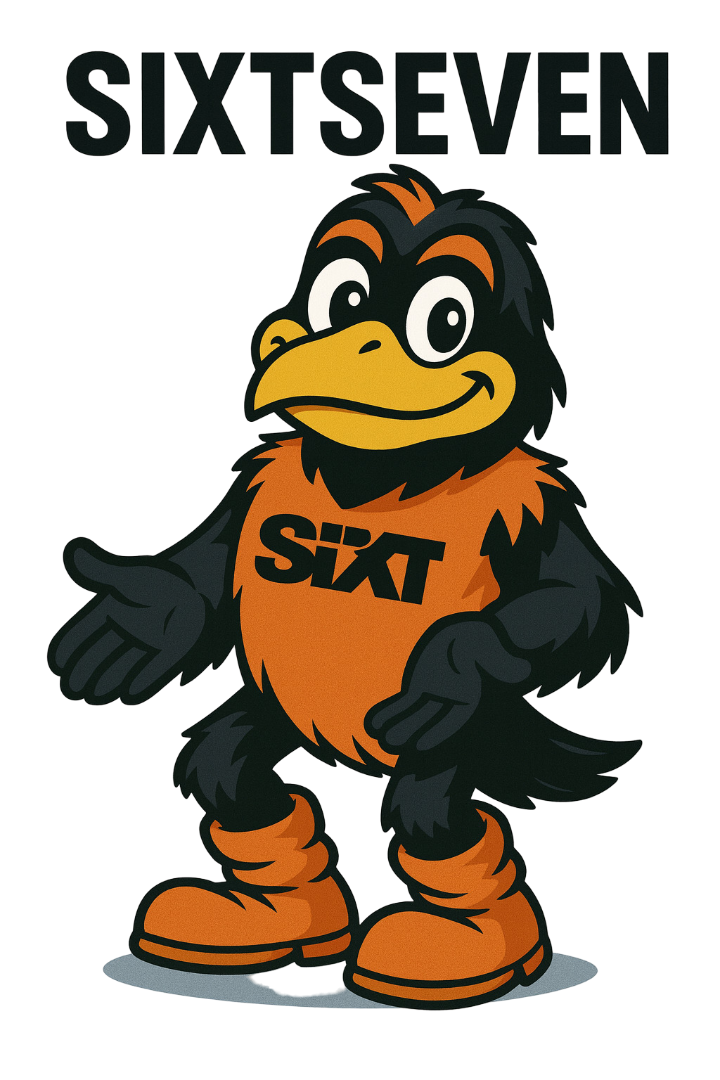
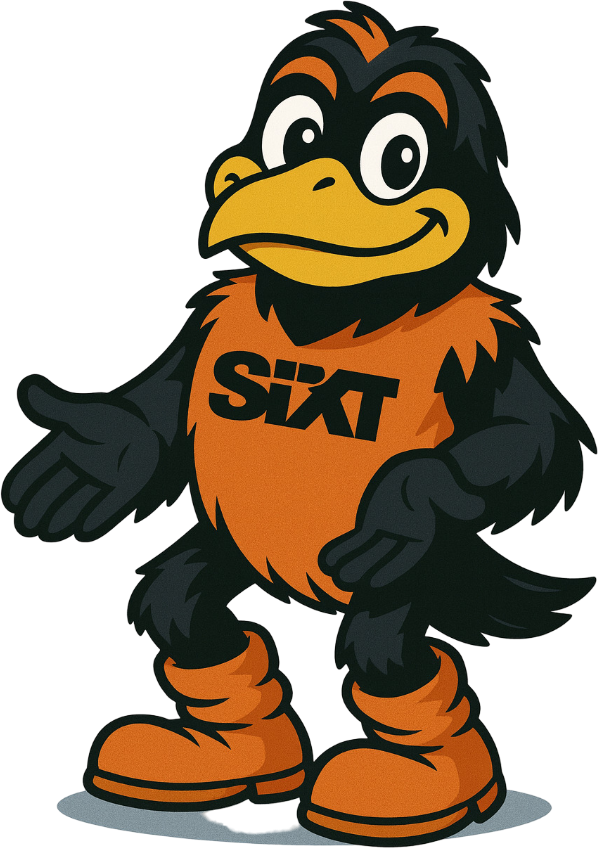
Chore: some more cleanup

diff --git a/src/routes/kiosk/+page.svelte b/src/routes/kiosk/+page.svelte
@@ -1,6 +1,7 @@
 <script lang="ts">
 	import { onMount } from 'svelte';
-	import SixtIcon from '$lib/assets/SixtIcon.svelte';
+	import sixtIconWhite from '$lib/assets/sixt7-white.png';
+	import mascot from '$lib/assets/sixtseven.png';
 
 	let code: string = '';
 	let inputEl: HTMLInputElement | null = null;
@@ -32,7 +33,9 @@
 	class="flex-grow flex items-center justify-center py-12 px-6 bg-gradient-to-r from-gray-900 to-gray-800 text-white"
 >
 	<div class="max-w-3xl w-full text-center text-white flex flex-col items-center">
-		<SixtIcon class="h-20 mb-8" />
+		<img src={sixtIconWhite} alt="SIXT" class="h-10 mb-8 w-auto" />
+
+		<img src={mascot} alt="SixtSeven mascot" class="w-40 mb-10 h-auto object-contain" />
 
 		<h1 class="text-4xl md:text-5xl font-bold mb-4">Scan your booking QR code</h1>
 		<p class="text-lg text-gray-300 mb-8">
